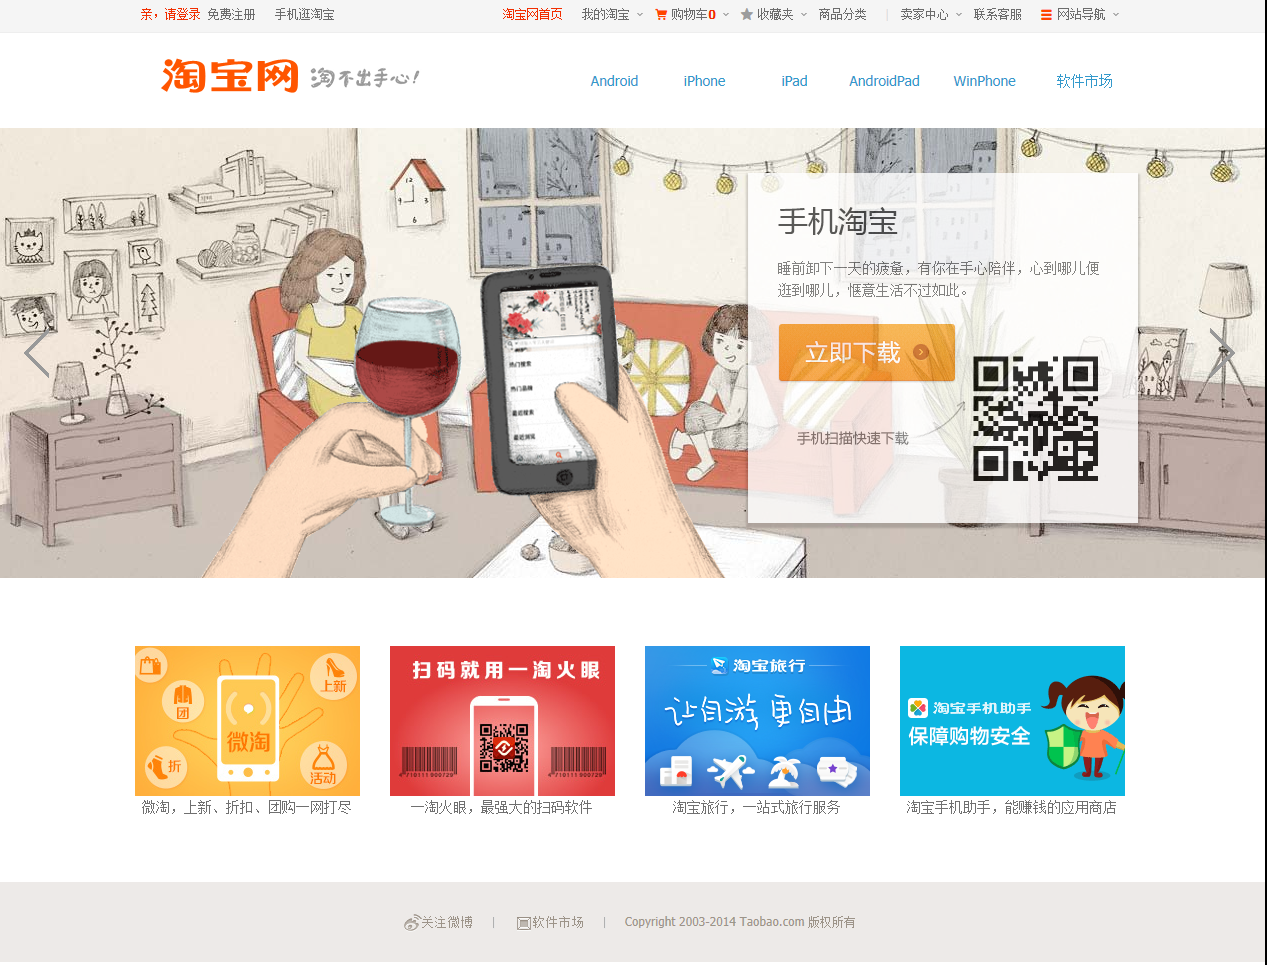
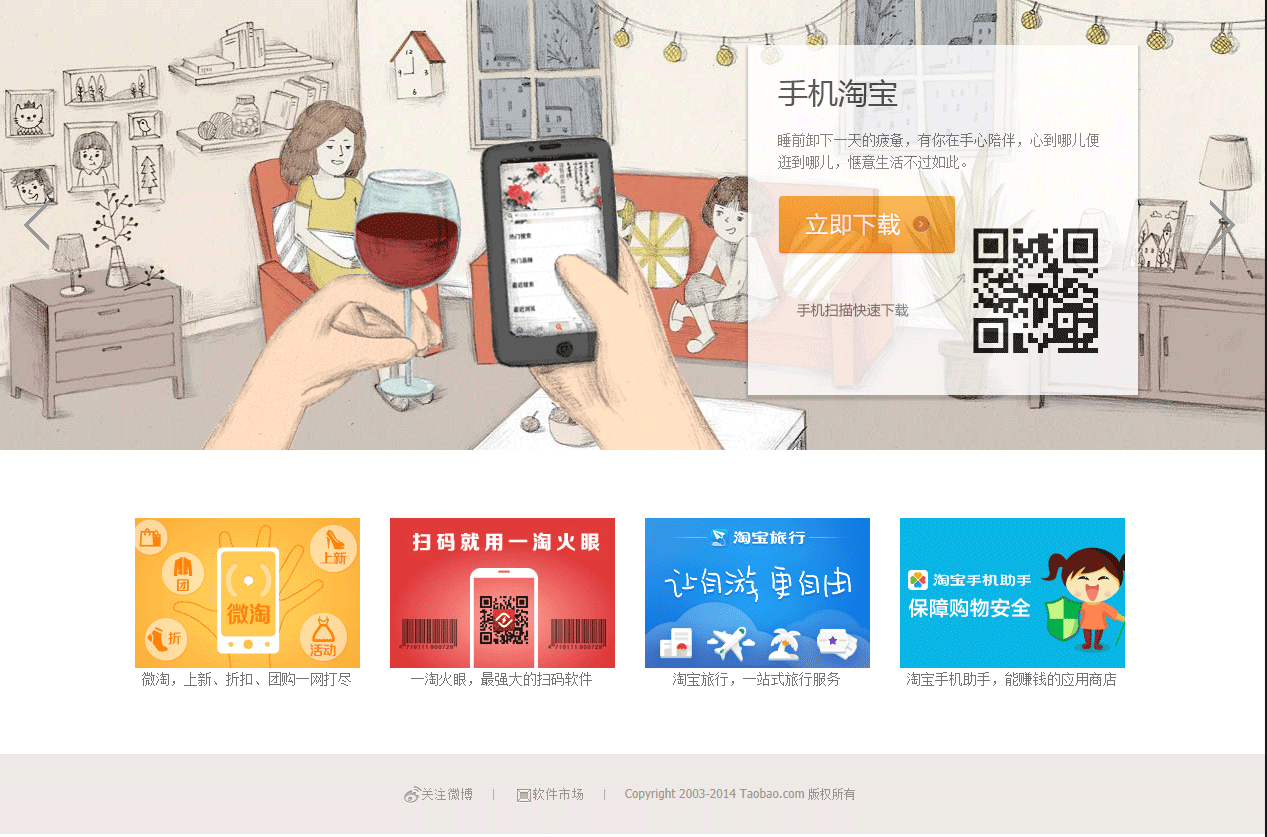
作业二特效一
遮罩层

diff --git a/作业二/特效一/demo1.html b/作业二/特效一/demo1.html
@@ -3,12 +3,41 @@
     <head>
         <meta charset="utf-8">
         <style type="text/css">
-        	img{
-        		width:100%;
-        		height:100%;
-        	}
+            *{
+                margin:0;
+                padding:0;
+            }
+            #container{
+                margin:0 auto;
+            }
+            #nav{
+                width:1267px;
+                overflow: hidden;
+            }
+            #nav img{
+                float:left;
+                margin: 0 110px 0 150px;
+            }
+            #nav ul{
+                float:left;
+            }
+            #nav ul li{
+                list-style: none;
+                float:left;
+                height:85px;
+                line-height: 85px;
+                color:#33A7DC;
+                padding:0 16px;
+            }
+            #nav ul li a{
+                text-decoration: none;
+            }
         	#mask{
-        		background-color:#000000;
+                width:100%;
+                height:100%;
+                position:fixed;
+                top:0;
+        		background-color:#000;
         		opacity:0.5; 
         		-moz-opacity:0.5; 
         		filter:alpha(opacity=50);
@@ -23,16 +52,39 @@
 				margin:auto;
 				width:800px;
 				height:545px;
-				background-image: url(images/close.png) 802px -10px no-repeat;
 				z-index:1001;
         	}
+
+            #close{
+                display:inline-block;
+                width:28px;
+                height:28px;
+                background:url(images/close.png) 0 0 no-repeat;
+                position:absolute;
+                left:786px;
+                top:-14px;
+            }
+            #close:hover{
+                background:url(images/close.png) -32px 0 no-repeat;
+            }
         </style>
     </head>
     <body>
-    	<img src="images/m_taobao.png" usemap="android" id='try'>
-    	<map name="android" id="android">
-    		<area shape="rect" coords="640,90,50,12"/>
-    	</map>
+        <div id='container'>
+            <img src="images/head.png">
+            <div id='nav'>
+                <img src="images/flag.png">
+                <ul>
+                    <li id="btn"><a href="#">Android</a></li>
+                    <li><a href="#">iPhone</a></li>
+                    <li><a href="#">iPad</a></li>
+                    <li><a href="#">AndroidPad</a></li>
+                    <li><a href="#">WinPhone</a></li>
+                    <li><a href="#">软件市场</a></li>
+                </ul>
+            </div>
+            <img src="images/m_taobao.png">
+        </div>
     </body>
     <script type="text/javascript">
     	//封装的弹出层 	
@@ -46,23 +98,29 @@
     	    //创建遮罩层
     	    var mask=document.createElement("div");
     	    mask.id = 'mask';
-    	    mask.style.width=sWidth+'px';
-    	    mask.style.height=sHeight+'px';
     	    document.body.appendChild(mask);
     	    //创建弹出图片
     	    var pic=document.createElement("div");
     	    pic.id="pic";
     	    var image=document.createElement('img');
     	    image.src="images/layer.png";
-    	    pic.appendChild(image);
-    	   	document.body.appendChild(pic);    
+            pic.appendChild(image);
+            var close = document.createElement('b');
+            close.id = 'close';
+    	    pic.appendChild(close);
+    	   	document.body.appendChild(pic);  
+            //关闭功能的实现
+            close.addEventListener('click',function(){
+                pic.style.display = 'none';
+                mask.style.display = 'none';
+            },false)  
     	}	                    
     	window.onload=function(){
-    	    var oBtn=document.getElementById("try");
+    	    var oBtn=document.getElementById("btn");
     	    oBtn.onclick=function(){
     	        pop();
     	    }
-    	                
+    	              
     	}
     </script>
 </html>
